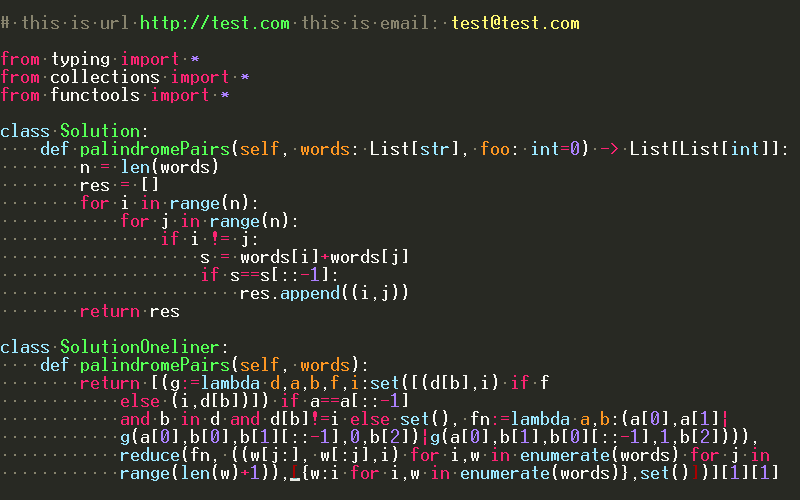
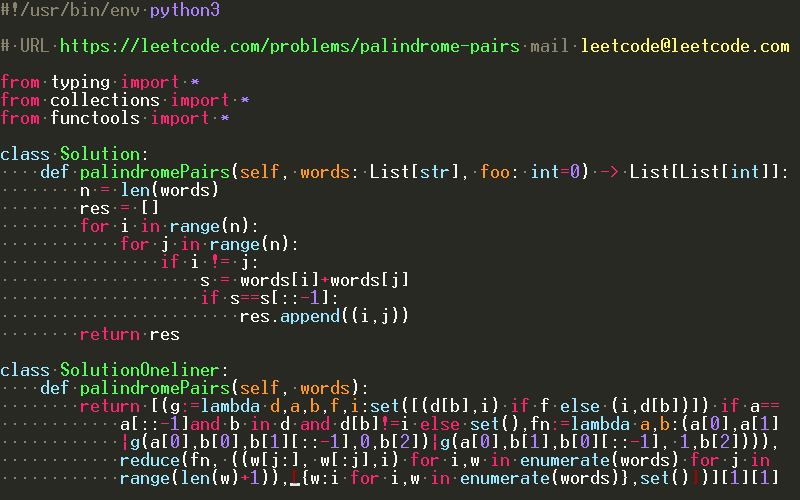
updated picture

diff --git a/misc/Solution.py b/misc/Solution.py
@@ -1,6 +1,6 @@
 #!/usr/bin/env python3
 
-# this is url http://test.com this is email: test@test.com
+# URL https://leetcode.com/problems/palindrome-pairs mail leetcode@leetcode.com
 
 from typing import *
 from collections import *
@@ -20,10 +20,9 @@ class Solution:
 
 class SolutionOneliner:
     def palindromePairs(self, words):
-        return [(g:=lambda d,a,b,f,i:set([(d[b],i) if f
-            else (i,d[b])]) if a==a[::-1]
-            and b in d and d[b]!=i else set(), fn:=lambda a,b:(a[0],a[1]|
-            g(a[0],b[0],b[1][::-1],0,b[2])|g(a[0],b[1],b[0][::-1],1,b[2]))),
+        return [(g:=lambda d,a,b,f,i:set([(d[b],i) if f else (i,d[b])]) if a==
+            a[::-1]and b in d and d[b]!=i else set(),fn:=lambda a,b:(a[0],a[1]
+            |g(a[0],b[0],b[1][::-1],0,b[2])|g(a[0],b[1],b[0][::-1], 1,b[2]))),
             reduce(fn, ((w[j:], w[:j],i) for i,w in enumerate(words) for j in
             range(len(w)+1)),[{w:i for i,w in enumerate(words)},set()])][1][1]
 
